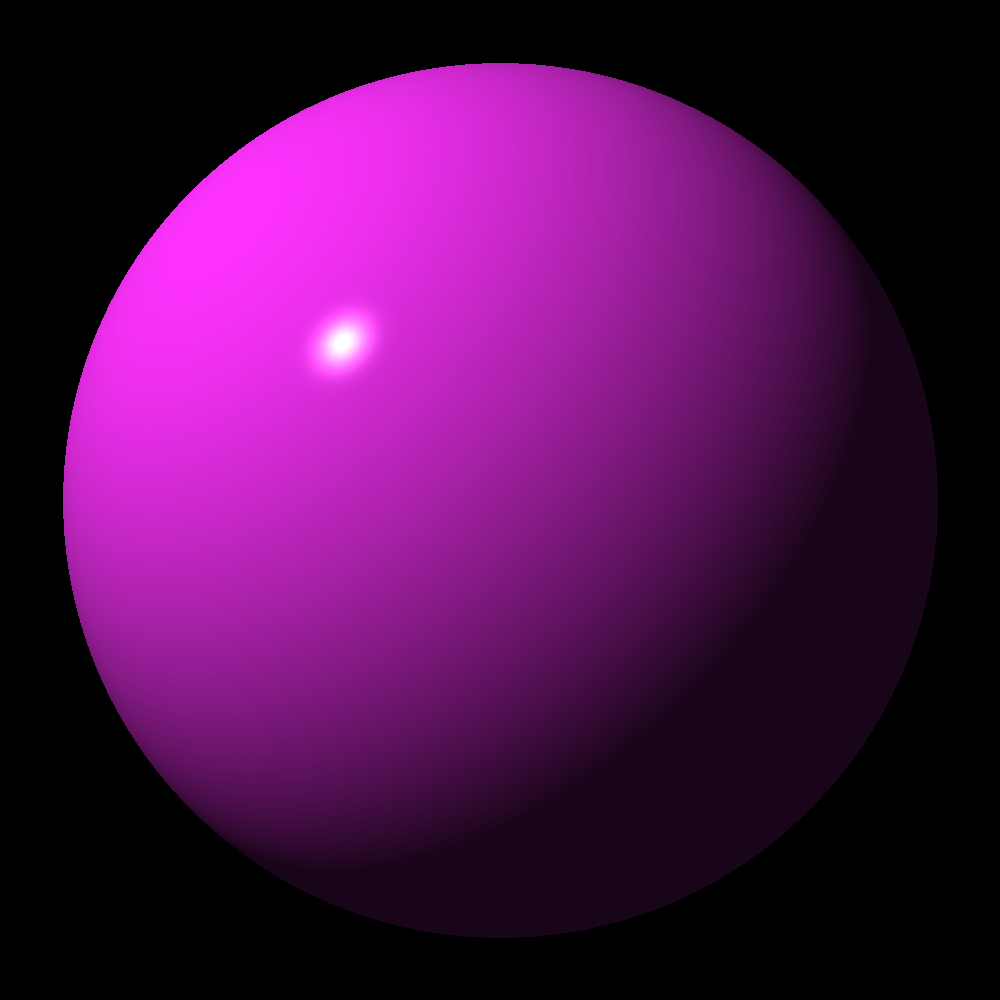
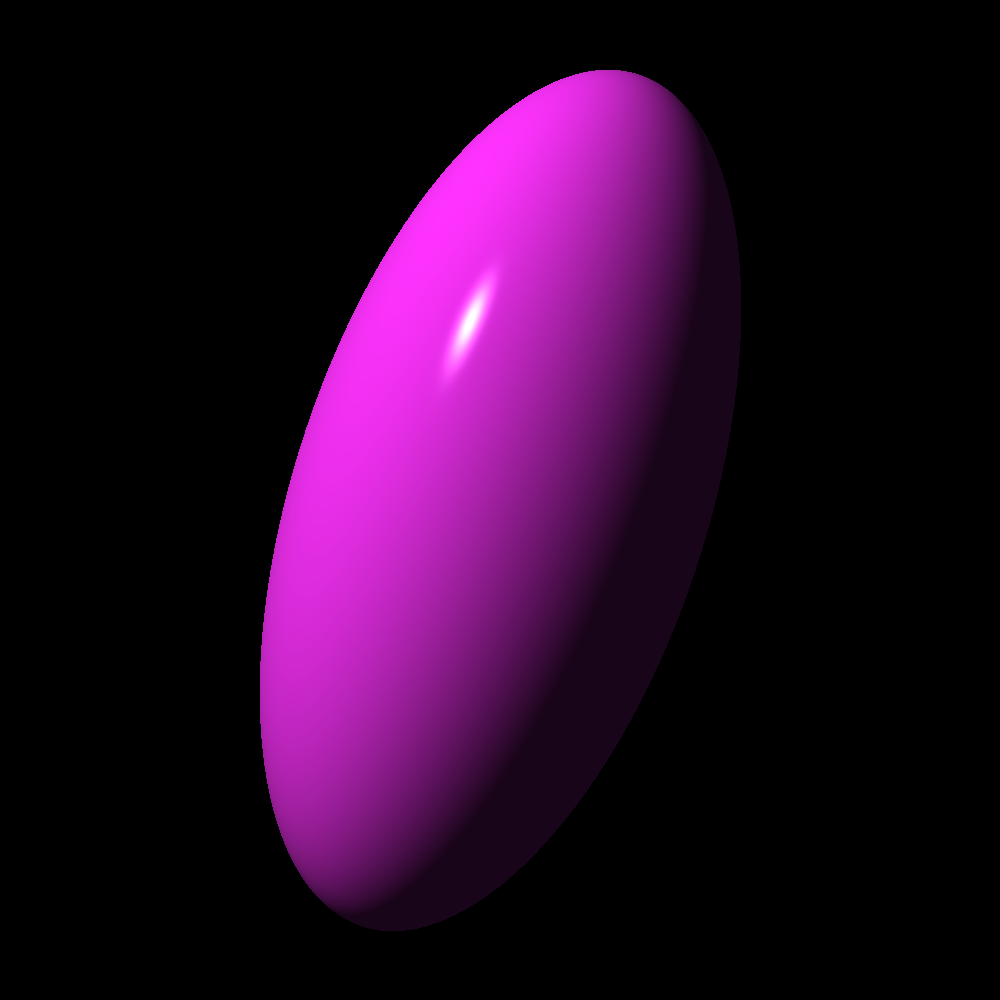
add first 2 test

diff --git a/src/main.rs b/src/main.rs
@@ -28,6 +28,7 @@ fn tick(env: &Environment, proj: Projectile) -> Projectile {
         velocity: proj.velocity + env.gravity + env.wind,
     }
 }
+
 fn projectile() {
     let mut p = Projectile {
         position: Point::new(0.0, 1.0, 0.0),
@@ -48,7 +49,6 @@ fn projectile() {
 
     cv.save("projectile.png").unwrap();
 }
-
 
 fn clock() {
     // Chapter 04 challenge:
@@ -152,7 +152,6 @@ fn raycast_2d_sphere() {
     canvas.save("2d_red_sphere.png").unwrap();
 }
 
-
 fn raycast_3d_sphere() {
     // Chapter 06 Challenge:
     // casts rays at a sphere and draws the picture to a canvas.
@@ -165,7 +164,9 @@ fn raycast_3d_sphere() {
     
     let mut canvas = Canvas::new(canvas_pixels, canvas_pixels);
     let mut s = Sphere::new(); //unit sphere
-    s.material.color = Color::new(1.0, 0.2, 1.0);
+    let t = Mat4::identity().scale(0.5, 1.0, 0.5).skew(0.5, 0., 0.0, 0., 0., 0.).rotate_x(PI/2.0);
+    s.set_transform(t);
+    s.material().color = Color::new(1.0, 0.2, 1.0);
     
     
     let light_position = Point::new(-10.0, 10.0, -10.0);
@@ -200,9 +201,9 @@ fn raycast_3d_sphere() {
 }
 
 fn main() {
-    move_a_point();
-    projectile();
-    clock();
-    raycast_2d_sphere();
+    //move_a_point();
+    //projectile();
+    //clock();
+    //raycast_2d_sphere();
     raycast_3d_sphere();
 }

diff --git a/src/shape/sphere.rs b/src/shape/sphere.rs
@@ -1,5 +1,4 @@
 //use std::time;
-
 use crate::get_id; 
 use crate::intersection::{Intersection, Intersections}; 
 use crate::material::Material; 
@@ -17,11 +16,11 @@ use super::shape::Shape;
 /// a default [material: Material]
 #[derive(Debug, Copy, Clone)]
 pub struct Sphere {
-    pub id: usize,
+    id: usize,
     transform: Mat4,
     inverse_transform: Mat4,
     transpose_inverse_transform: Mat4,
-    pub material: Material,
+    material: Material,
 }
 
 impl Sphere {
@@ -41,9 +40,9 @@ impl Sphere {
         self.transpose_inverse_transform = transform.inv().transpose();
     }
 
-    pub fn transform(&self) -> Mat4 {
-        self.transform
-    }
+    pub fn set_material(&mut self, material: Material) {
+        self.material = material;
+    } 
 }
 
 impl PartialEq for Sphere {
@@ -112,6 +111,10 @@ impl Shape for Sphere {
     }
 
     fn material(&self) -> Material {
-        self.material.clone()
+        self.material
+    }
+
+    fn transform(&self) -> Mat4 {
+        self.transform
     }
 }

diff --git a/tests/sphere.rs b/tests/sphere.rs
@@ -153,7 +153,7 @@ fn normal_on_a_transformed_sphere() {
 fn sphere_default_material() {
     let s = Sphere::new();
     let m = Material::new();
-    assert_eq!(s.material, m);
+    assert_eq!(s.material(), m);
 }
 
 #[test]
@@ -161,6 +161,6 @@ fn sphere_assign_material() {
     let mut s = Sphere::new();
     let mut m = Material::new();
     m.ambient = 1.0;
-    s.material = m;
-    assert_eq!(s.material, m);
+    s.set_material(m);
+    assert_eq!(s.material(), m);
 }

diff --git a/src/shape/shape.rs b/src/shape/shape.rs
@@ -1,6 +1,7 @@
 //use crate::material::Material;
 
 use crate::material::Material;
+use crate::matrix::Mat4;
 use crate::tuple::{Point, Vector};
 use crate::{intersection::Intersections, ray::Ray};
 use std::fmt;
@@ -31,6 +32,9 @@ pub trait Shape : fmt::Debug {
 
     /// Return shape's material
     fn material(&self) ->Material;
+
+    /// Return shape's transform
+    fn transform(&self) ->Mat4;
 }
 
 impl Clone for Box<dyn Shape> {

diff --git a/src/light.rs b/src/light.rs
@@ -4,7 +4,7 @@ use crate::tuple::Point;
 /// A point light: a light source with no size existing at single 
 /// [position: Point] in space. It is also defined by its [intensity: Color] 
 /// which describes how bright is the color of the light source
-#[derive(Debug, Copy, Clone)]
+#[derive(Debug, Copy, Clone, PartialEq)]
 pub struct Light {
     pub position: Point,
     pub intensity: Color,

diff --git a/src/lib.rs b/src/lib.rs
@@ -35,6 +35,7 @@ pub mod ray;
 pub mod intersection;
 pub mod light;
 pub mod material;
+pub mod world;
 
 pub const EPSILON: f32 = 0.00001;
 
